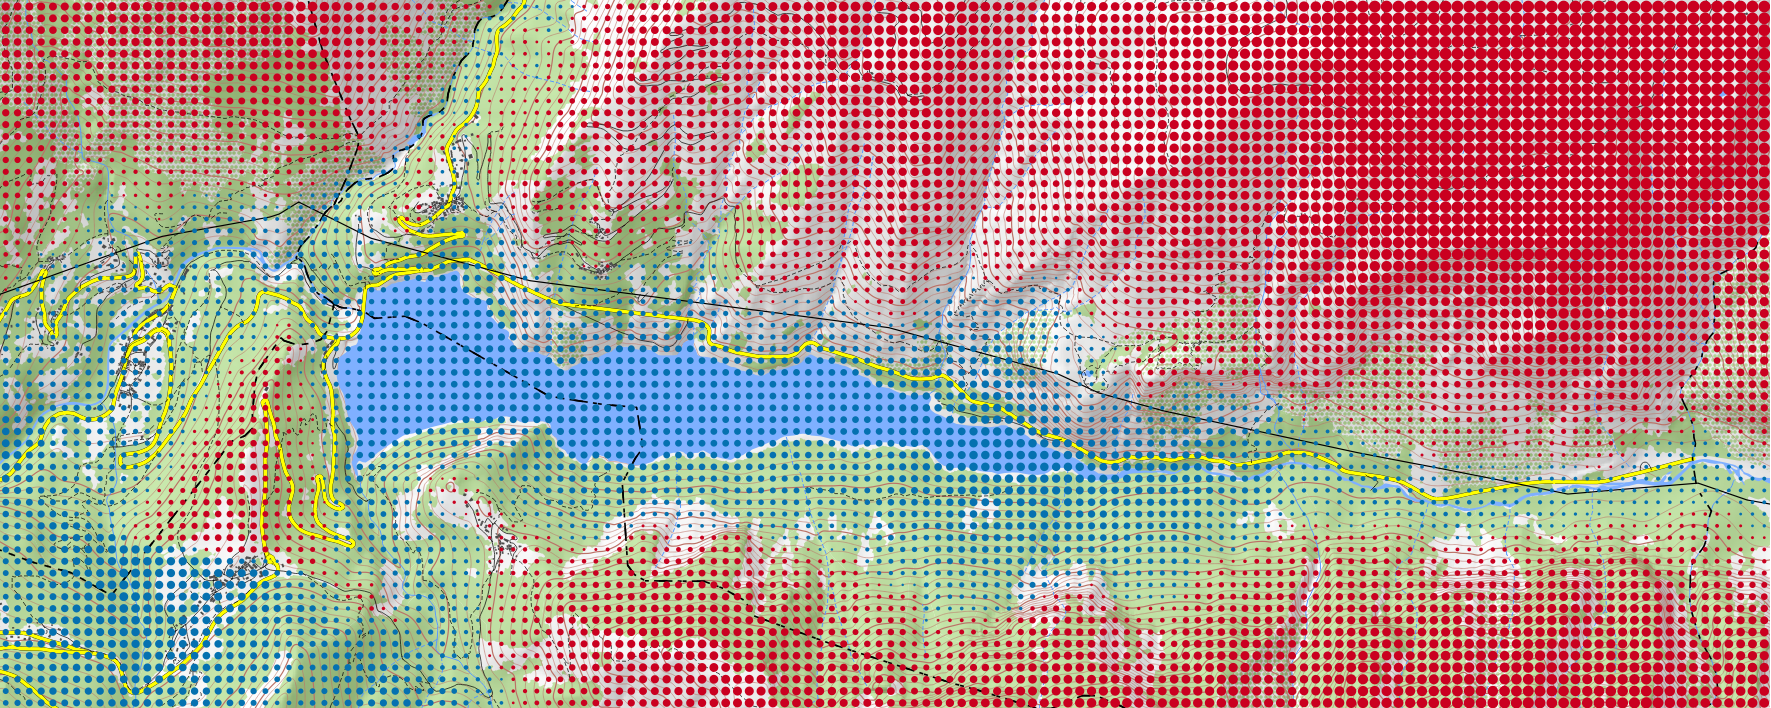
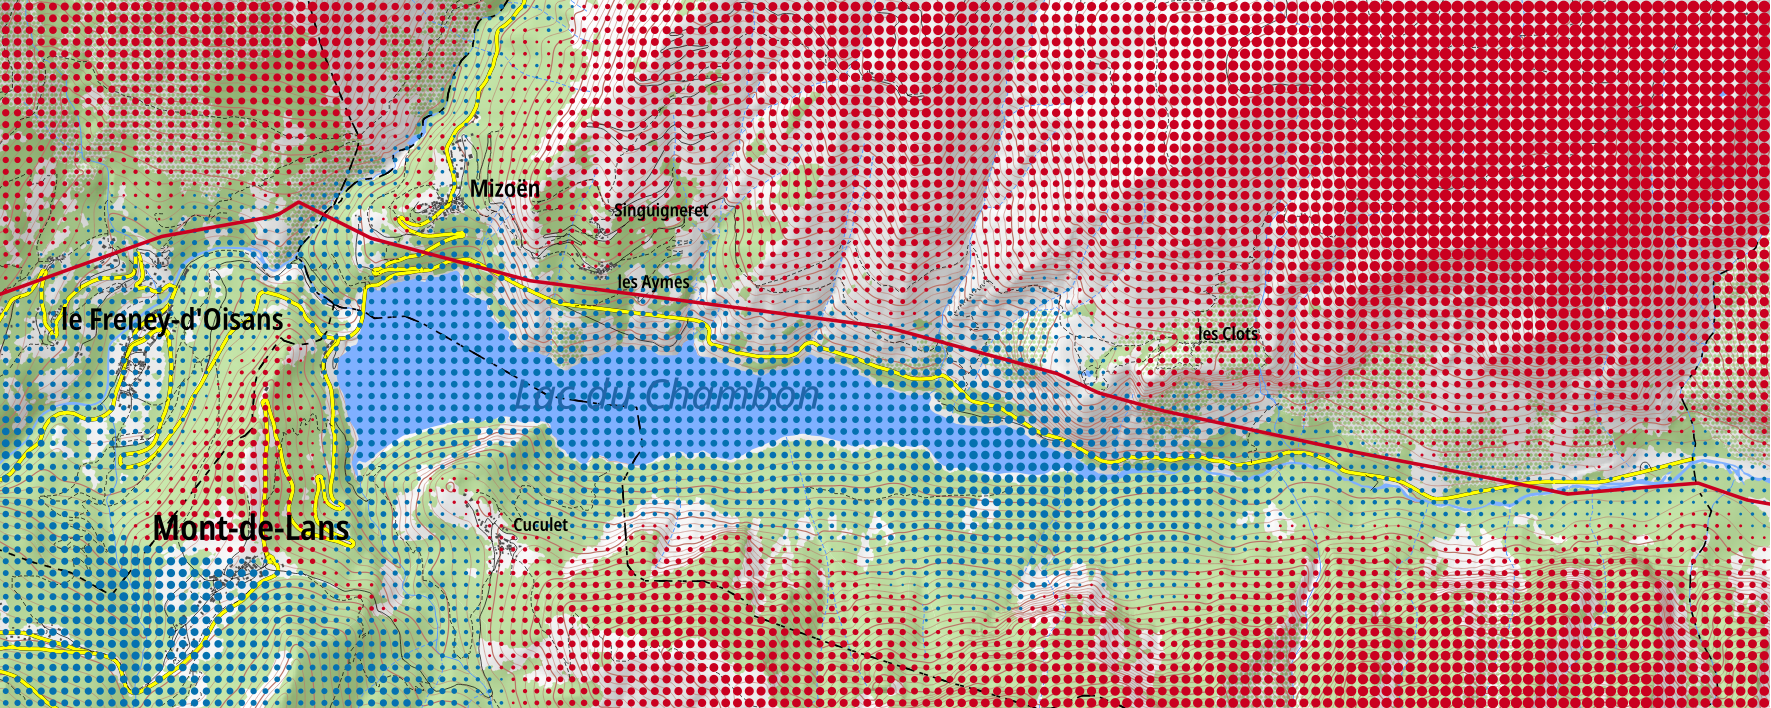
Maj figure 6.4

diff --git a/src/Corps/Partie2/Chapitre6/figures/Raster_ISO_DALT_HT.tex b/src/Corps/Partie2/Chapitre6/figures/Raster_ISO_DALT_HT.tex
@@ -1,14 +1,33 @@
 \begin{tikzpicture}
   \tikzset{et/.style={above,font=\footnotesize\vphantom{Ag}}}
-  %
+  % 
   \node[inner sep=0pt, anchor=south west] (image) at (0,0){\includegraphics{./figures/Raster_ISO_DALT_HT.png}};
-  %
+  % 
   \begin{scope}
     \node (P2) at ([yshift=-.5cm]image.south east) {};
     \node (P1) at ([yshift=-.5cm]image.south west) {};
+
+    \node (rect) [anchor=north west, minimum width=1cm,minimum
+    height=.25cm] at ([yshift=-.25cm]P1) {}; \path[draw=RdBu-9-1, line
+    width=.4mm](rect.west) --([xshift=-1ex]rect.south) -- ([xshift=1ex]rect.north)
+    -- (rect.east);
+    \node[anchor=west, font=\tiny\vphantom{Ag}, text width = 4cm] at
+    ([xshift=1ex]rect.east) {Ligne électrique utilisée comme
+      \emph{objet de référence}};
+
+    % \node (rect2) [anchor=north west, minimum width=1cm,minimum
+    % height=.25cm] at ([xshift=5.5cm,yshift=-.25cm]P1) {};
+    % \path[draw=RdBu-9-9, line width=.25mm](rect2.west)
+    % --([xshift=-1ex]rect2.north) -- ([xshift=1ex]rect2.south) --
+    % (rect2.east); \node[anchor=west, font=\tiny\vphantom{Ag}, text
+    % width = 4cm] at ([xshift=1ex]rect2.east) {Isolignes d'éloignement
+    % à \emph{l'objet de référence} (équidistance \SI{250}{\meter})};
+
     % Échelle
     \draw[-] (P2 |- -1cm,-1cm) --++ (-1,0) node[et,pos=.5] {\SI{500}{\meter}};
     % Légende détaillée
-    \path (P1) -- (P2) node[pos=.5, yshift=-1cm] {\tiny Pour la légende détaillée du fond topographique voir \autoref{anx:topo_leg}. Sources: BD TOPO 2018, BD ALTI 2018.}; 
+    \path (P1) -- (P2) node[pos=.5, yshift=-1cm] {\tiny Pour la
+      légende détaillée du fond topographique voir
+      \autoref{anx:topo_leg}. Sources: BD TOPO 2018, BD ALTI 2018.};
   \end{scope}
 \end{tikzpicture}
